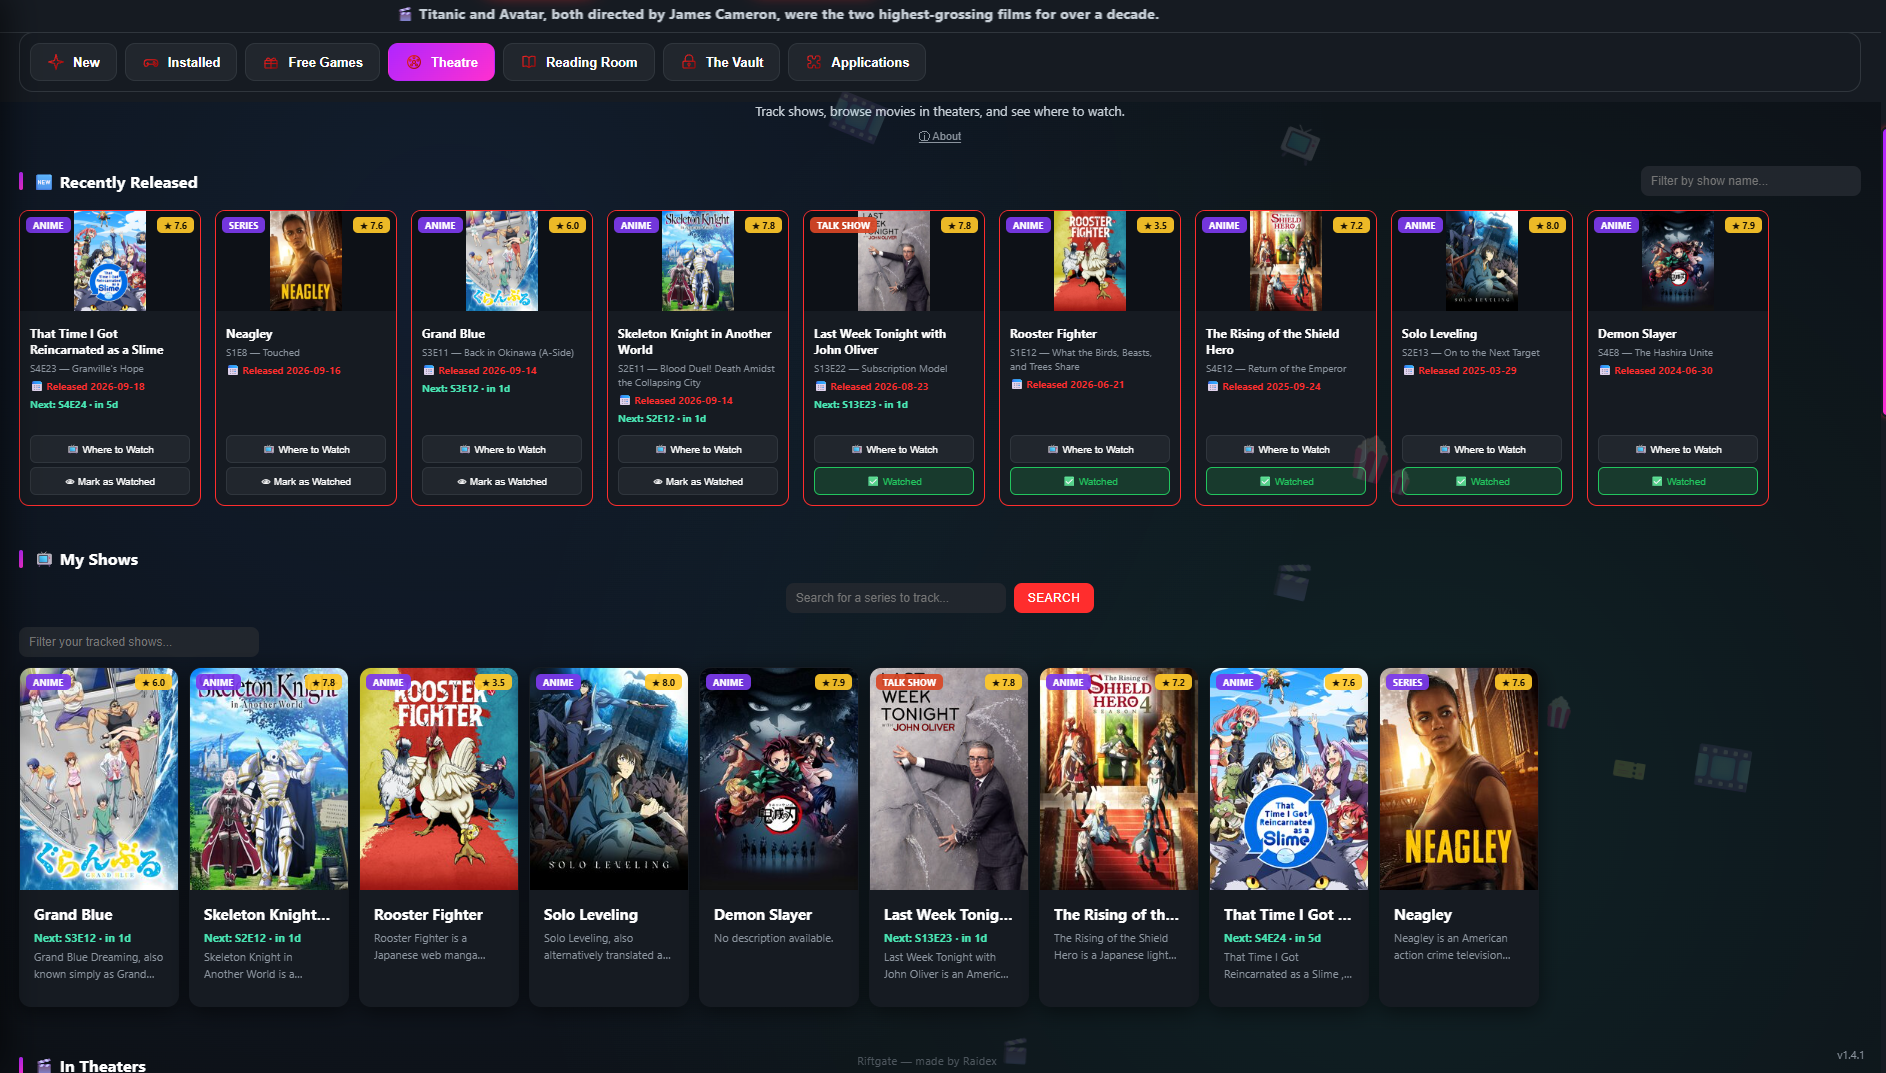
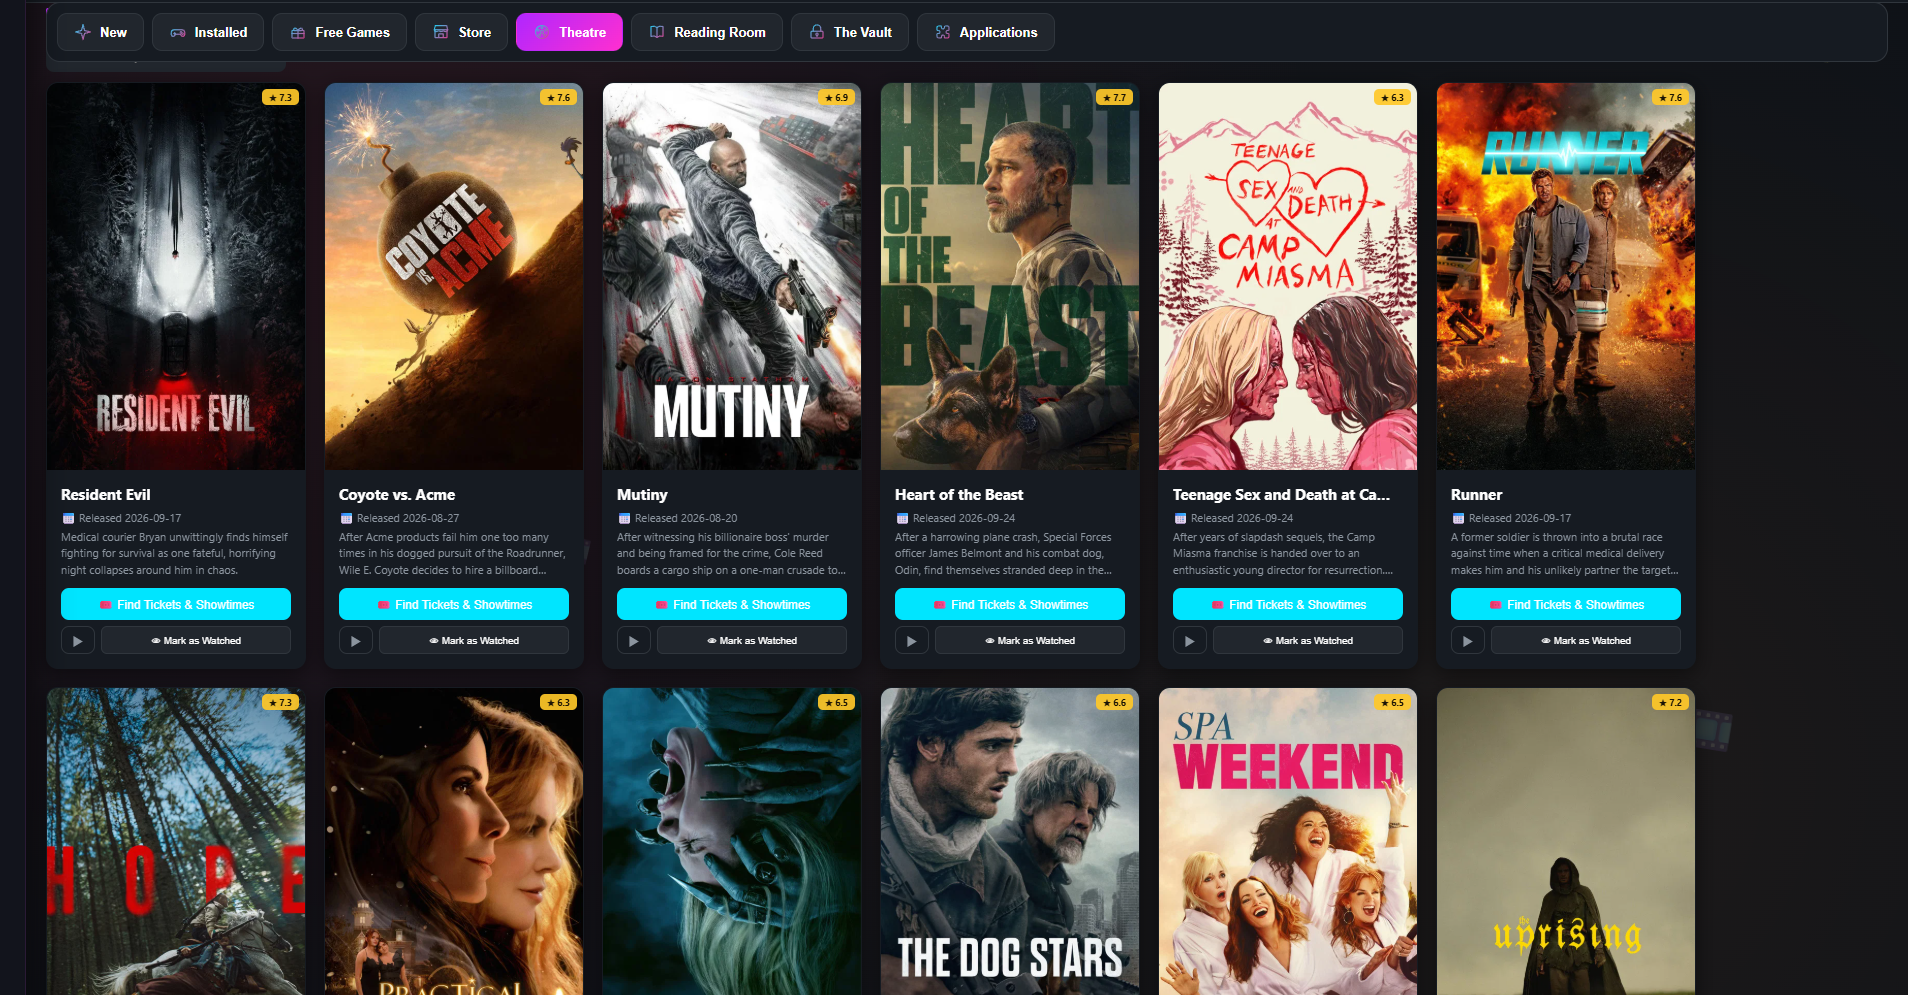
Fresh screenshots for the README and landing page, plus a Store section
Claude-Session: https://claude.ai/code/session_01Up4FNxVt43ESb2AfnWehfQ

diff --git a/docs/index.html b/docs/index.html
@@ -66,40 +66,51 @@
       <p>A live, auto-updating feed of what's free to keep or free to play right now on Steam, Epic Games, GOG, itch.io, and giveaway aggregators like GamerPower — so a good deal never slips by unnoticed.</p>
     </div>
     <div class="pillar-visual pillar-visual--shot">
-      <img src="screenshots/free-games.jpg" alt="Riftgate's Free Games section showing free-to-keep titles from Epic Games and Steam" loading="lazy">
+      <img src="screenshots/free-games.jpg" alt="Riftgate's Free Games section showing today's free spotlight game, platform filters and newly added free games" loading="lazy">
     </div>
   </div>
 
   <div class="pillar-row">
+    <div class="pillar-text">
+      <span class="pillar-tag">🛒 Store</span>
+      <h3>The best deals, in one place.</h3>
+      <p>The biggest current discounts on PC games from Steam and dozens of other stores, in one searchable grid — with review scores, trailers, what kind of seller it is, and prices in your own region's currency.</p>
+    </div>
+    <div class="pillar-visual pillar-visual--shot">
+      <img src="screenshots/store.jpg" alt="Riftgate's Store section showing discounted games like The Witcher 3, It Takes Two and Hades II" loading="lazy">
+    </div>
+  </div>
+
+  <div class="pillar-row reverse">
     <div class="pillar-text">
       <span class="pillar-tag">🎬 Theatre</span>
       <h3>Your shows and movies, tracked.</h3>
       <p>Follow TV series for new episodes, browse what's currently playing near you, and preview any title with a full-screen trailer before you commit.</p>
     </div>
     <div class="pillar-visual pillar-visual--shot">
-      <img src="screenshots/theatre.jpg" alt="Riftgate's Theatre section showing recently released episodes and tracked shows" loading="lazy">
+      <img src="screenshots/theatre.jpg" alt="Riftgate's Theatre section showing movies in theaters with ratings and showtime links" loading="lazy">
     </div>
   </div>
 
-  <div class="pillar-row reverse">
+  <div class="pillar-row">
     <div class="pillar-text">
       <span class="pillar-tag pillar-tag--light">📚 Reading Room</span>
       <h3>Four ways to find your next read.</h3>
       <p>Buy current best sellers and new releases, discover free public-domain books, browse dedicated Manga and Comics shelves, keep your own personal EPUB/PDF library — with drag-and-drop that works even while Riftgate is closed — and browse recommended eBook reader apps. Your recently opened titles are always one click away.</p>
     </div>
     <div class="pillar-visual pillar-visual--shot">
-      <img src="screenshots/reading-room.jpg" alt="Riftgate's Reading Room section showing popular and best-selling books" loading="lazy">
+      <img src="screenshots/reading-room.jpg" alt="Riftgate's Reading Room showing most popular and best-selling books" loading="lazy">
     </div>
   </div>
 
-  <div class="pillar-row">
+  <div class="pillar-row reverse">
     <div class="pillar-text">
       <span class="pillar-tag">🧩 Applications</span>
       <h3>A shelf of apps worth knowing about.</h3>
       <p>Tools and apps built by the community — people like you — plus a few admin picks worth knowing about. Each one shows a creator credit with a link to their GitHub profile and a link straight to where to grab it, with search and sort by newest, most visited, name, or author. Found something worth adding? Suggest it from right inside the app.</p>
     </div>
     <div class="pillar-visual pillar-visual--shot">
-      <img src="screenshots/applications.jpg" alt="Riftgate's Applications section showing a curated list of recommended apps" loading="lazy">
+      <img src="screenshots/applications.jpg" alt="Riftgate's Applications section showing a community-built app with its creator credit" loading="lazy">
     </div>
   </div>
 </section>
@@ -110,7 +121,6 @@
     <h2>Built for how you actually spend your evening.</h2>
     <p>A few more things that come with every install:</p>
     <ul class="vault-list">
-      <li><strong>🛒 Store</strong> — the best current discounts on PC games from Steam and dozens of other stores in one searchable grid, with review scores, trailers, and prices in your own region's currency.</li>
       <li><strong>🆕 New</strong> — one feed for what's newly released or coming soon, across movies, series, and games, with hover trailers built right in.</li>
       <li><strong>🎲 Surprise Me</strong> — can't decide? Spin it. It already knows what section you're in, and the result comes with real context — genre, whether you've played it before and when, release info, all of it.</li>
       <li><strong>🎨 Nine color themes</strong> (the whole look, header included, follows the one you pick), light and dark mode, adjustable grid density, and a first-run tour that walks you through everything.</li>

diff --git a/README.md b/README.md
@@ -62,6 +62,8 @@ Metacritic), and a trailer preview, with quick links straight to each
 store to buy. Prices and currency follow your Region setting, so
 they match the store you'd actually be buying from.
 
+![Store](screenshots/store.png)
+
 **🎬 Theatre** — track TV series for new episodes (with ratings and a
 next-episode countdown), browse movies currently playing near you, and
 jump into a full-screen trailer preview.
